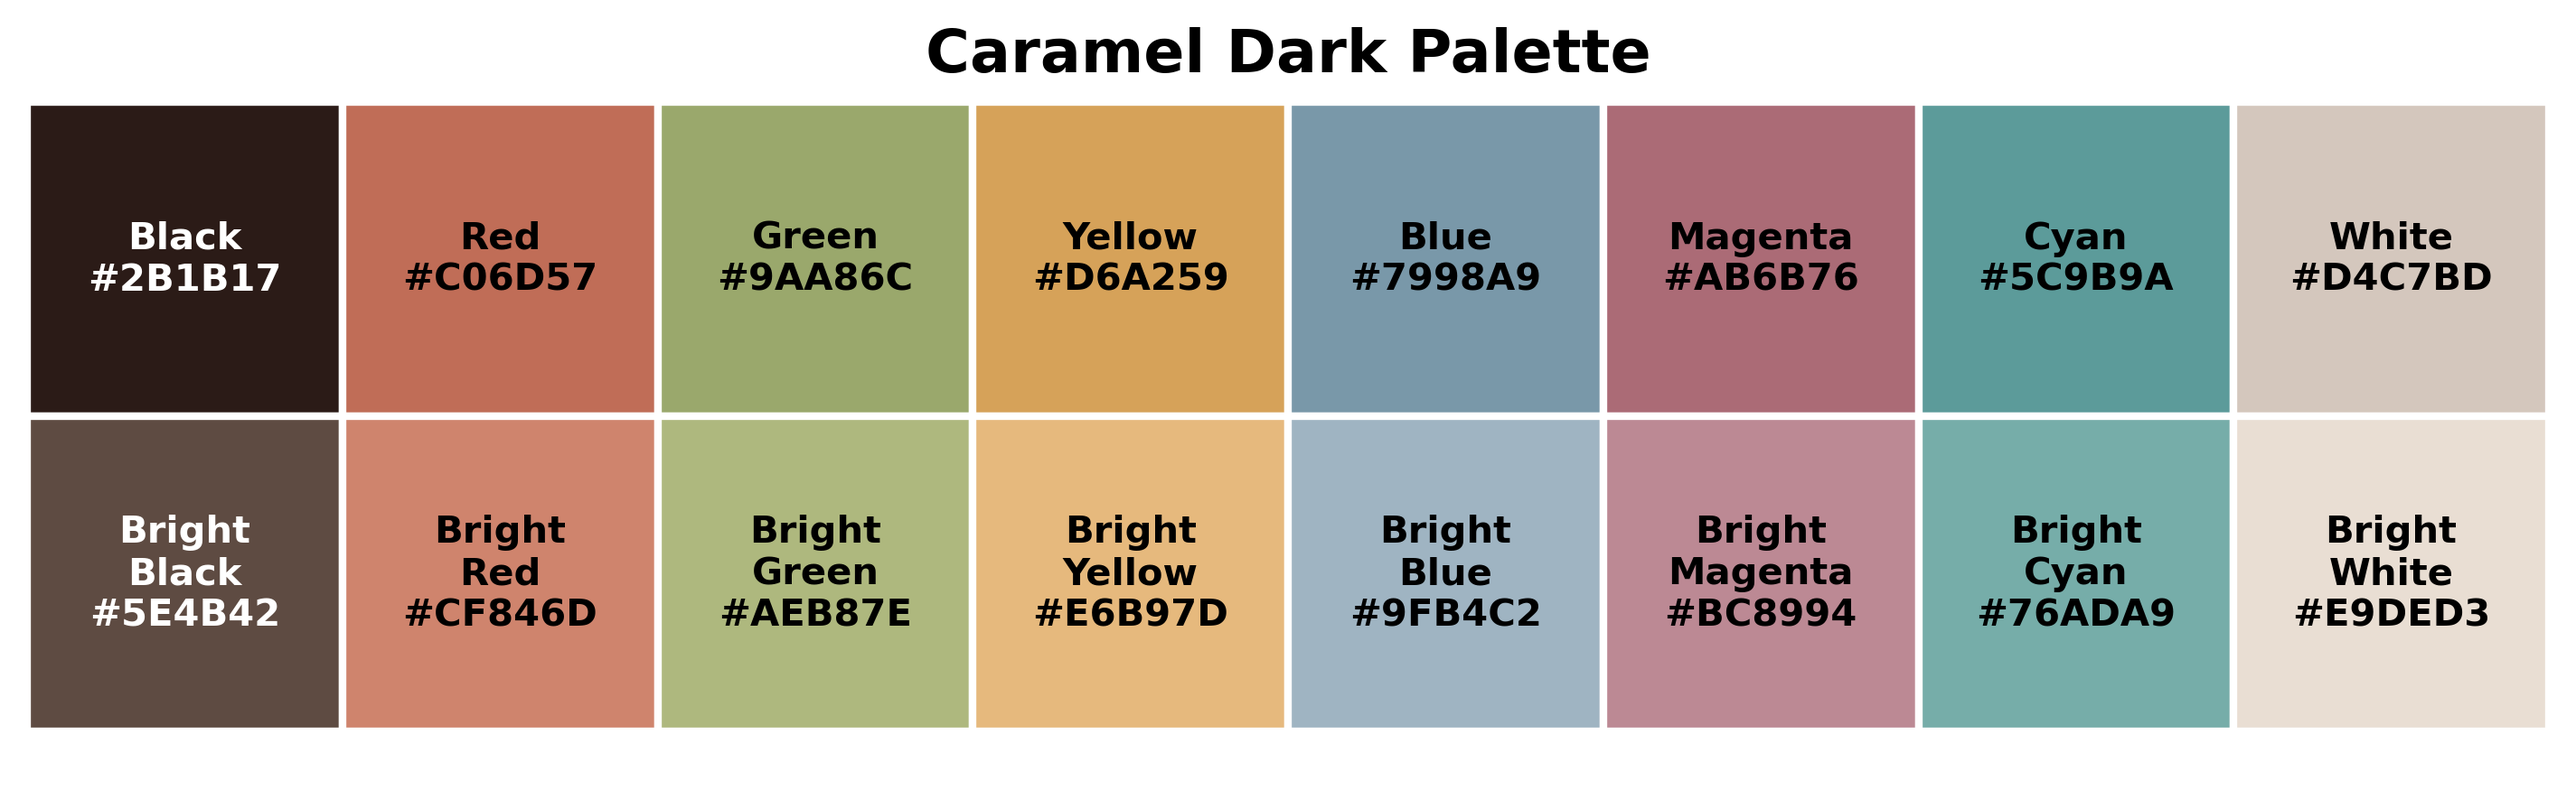
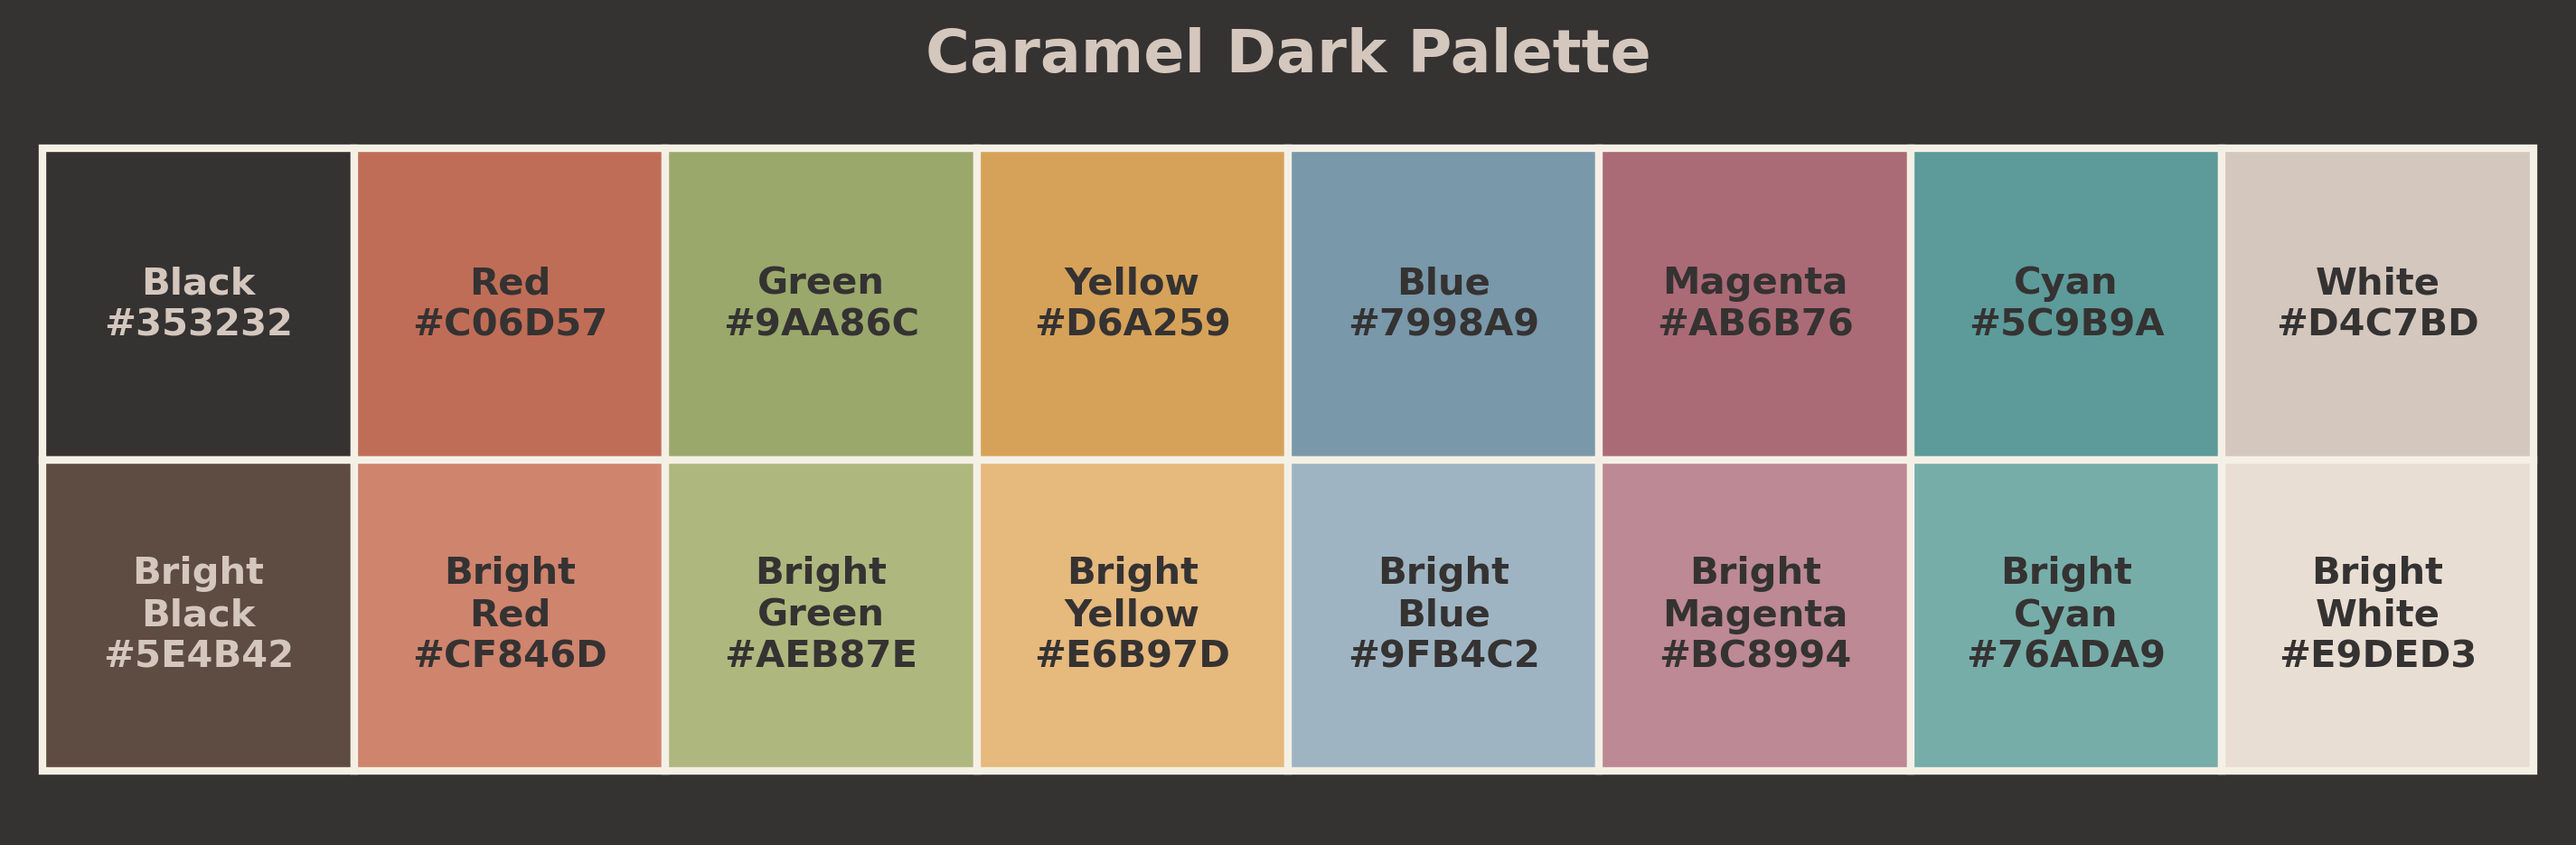
modified palette generation file

diff --git a/src/generate_palette_images.py b/src/generate_palette_images.py
@@ -1,55 +1,125 @@
 import matplotlib.pyplot as plt
-from caramel_colors import caramel_light, caramel_dark  # Import palettes
+from caramel_colors import caramel_light, caramel_dark  # Import the light and dark palettes
 
 # Update default font settings
 plt.rcParams["font.family"] = "DejaVu Sans"  # Change font to DejaVu Sans
 
-# Function to generate an 8x2 grid palette image
-def generate_palette_grid(palette, title, filename):
+# Function to generate the light palette grid
+def generate_light_palette_grid(title, filename):
+    # Create the figure and axis
     fig, ax = plt.subplots(figsize=(12, 3.5))  # Adjusted figure size for better aspect ratio
-    ax.axis('off')
+    fig.patch.set_facecolor(caramel_light["White"])  # Set background color to "White"
+    ax.axis('off')  # Turn off axes
 
     # Add title using plt.title
-    plt.title(title, fontsize=16, weight="bold", color="black", pad=8)
+    plt.title(title, fontsize=16, weight="bold", color=caramel_light["Black"], pad=8)
 
-    # Define box size
+    # Define box size for each color block
     box_size = 1.0
 
-    # Draw the palette as an 8x2 grid
-    for i, (name, color) in enumerate(palette.items()):
+    # Draw the light palette as an 8x2 grid
+    for i, (name, color) in enumerate(caramel_light.items()):
         x = i % 8  # Column index
         y = 1 - (i // 8)  # Row index
 
-        # Split "Bright" names into two lines
+        # Split "Bright" names into two lines for better readability
         if "Bright" in name:
             display_name = name.replace("Bright ", "Bright\n")
         else:
             display_name = name
 
-        # Combine the name and hex code
+        # Combine the name and hex code into a single string
         display_text = f"{display_name}\n{color}"
 
-        # Draw the color block
-        ax.add_patch(plt.Rectangle((x, y), box_size, box_size, color=color, ec="white", lw=2))  # Add white border
+        # Draw the color block as a rectangle
+        ax.add_patch(plt.Rectangle((x, y), box_size, box_size, color=color, ec=caramel_dark["Bright Black"], lw=2))  # Add white border
 
         # Add the text centered in the block
         ax.text(
-            x + box_size / 2, y + box_size / 2,
+            x + box_size / 2, y + box_size / 2,  # Center the text in the block
             display_text,
             ha="center", va="center",  # Center text both horizontally and vertically
             fontsize=10, weight="bold",
-            color="white" if color in ["#3B302C", "#6D5E55", "#2B1B17", "#5E4B42"] else "black"
+            color=caramel_light["White"] if color in ["#3B302C", "#6D5E55"] else caramel_light["Black"]  # Dynamic text color for contrast
         )
 
     # Set axis limits and aspect ratio
-    ax.set_xlim(0, 8)
-    ax.set_ylim(-0.1, 2)  # Reduced bottom padding further
+    ax.set_xlim(-0.05, 8.05)  # Small padding to include the grid border
+    ax.set_ylim(-0.15, 2.15)  # Small padding to include the grid border
     ax.set_aspect('equal')  # Ensure boxes are square
 
+    # Ensure the bounding box is the same thickness as the grid borders
+    ax.spines['top'].set_linewidth(2)
+    ax.spines['bottom'].set_linewidth(2)
+    ax.spines['left'].set_linewidth(2)
+    ax.spines['right'].set_linewidth(2)
+    ax.spines['top'].set_color(caramel_dark["Bright Black"])
+    ax.spines['bottom'].set_color(caramel_dark["Bright Black"])
+    ax.spines['left'].set_color(caramel_dark["Bright Black"])
+    ax.spines['right'].set_color(caramel_dark["Bright Black"])
+
     # Save the figure with tight bounding box
-    plt.savefig(f"../palette/{filename}", bbox_inches="tight", dpi=300)
+    plt.savefig(f"../palette/{filename}", bbox_inches="tight", dpi=300, facecolor=fig.get_facecolor())
     plt.close()
 
-# Generate the 8x2 grids
-generate_palette_grid(caramel_light, "Caramel Light Palette", filename="caramel_light_grid.png")
-generate_palette_grid(caramel_dark, "Caramel Dark Palette", filename="caramel_dark_grid.png")
+# Function to generate the dark palette grid
+def generate_dark_palette_grid(title, filename):
+    # Create the figure and axis
+    fig, ax = plt.subplots(figsize=(12, 3.5))  # Adjusted figure size for better aspect ratio
+    fig.patch.set_facecolor(caramel_dark["Black"])  # Set background color to "Bright Black"
+    ax.axis('off')  # Turn off axes
+
+    # Add title using plt.title
+    plt.title(title, fontsize=16, weight="bold", color=caramel_dark["White"], pad=8)  # White title for contrast
+
+    # Define box size for each color block
+    box_size = 1.0
+
+    # Draw the dark palette as an 8x2 grid
+    for i, (name, color) in enumerate(caramel_dark.items()):
+        x = i % 8  # Column index
+        y = 1 - (i // 8)  # Row index
+
+        # Split "Bright" names into two lines for better readability
+        if "Bright" in name:
+            display_name = name.replace("Bright ", "Bright\n")
+        else:
+            display_name = name
+
+        # Combine the name and hex code into a single string
+        display_text = f"{display_name}\n{color}"
+
+        # Draw the color block as a rectangle
+        ax.add_patch(plt.Rectangle((x, y), box_size, box_size, color=color, ec=caramel_light["White"], lw=2))  # Add white border
+
+        # Add the text centered in the block
+        ax.text(
+            x + box_size / 2, y + box_size / 2,  # Center the text in the block
+            display_text,
+            ha="center", va="center",  # Center text both horizontally and vertically
+            fontsize=10, weight="bold",
+            color=caramel_dark["White"] if color in ["#353232", "#5E4B42"] else caramel_dark["Black"]  # Dynamic text color for contrast
+        )
+
+    # Set axis limits and aspect ratio
+    ax.set_xlim(-0.05, 8.05)  # Small padding to include the grid border
+    ax.set_ylim(-0.15, 2.15)  # Small padding to include the grid border
+    ax.set_aspect('equal')  # Ensure boxes are square
+
+    # Ensure the bounding box is the same thickness as the grid borders
+    ax.spines['top'].set_linewidth(2)
+    ax.spines['bottom'].set_linewidth(2)
+    ax.spines['left'].set_linewidth(2)
+    ax.spines['right'].set_linewidth(2)
+    ax.spines['top'].set_color(caramel_light["White"])
+    ax.spines['bottom'].set_color(caramel_light["White"])
+    ax.spines['left'].set_color(caramel_light["White"])
+    ax.spines['right'].set_color(caramel_light["White"])
+
+    # Save the figure with tight bounding box
+    plt.savefig(f"../palette/{filename}", bbox_inches="tight", dpi=300, facecolor=fig.get_facecolor())
+    plt.close()
+
+# Generate the light and dark palette grids
+generate_light_palette_grid("Caramel Light Palette", filename="caramel_light_grid.png")
+generate_dark_palette_grid("Caramel Dark Palette", filename="caramel_dark_grid.png")

diff --git a/src/caramel_colors.py b/src/caramel_colors.py
@@ -21,7 +21,7 @@ caramel_light = {
 }
 
 caramel_dark = {
-    "Black": "#2B1B17",
+    "Black": "#353232",
     "Red": "#C06D57",
     "Green": "#9AA86C",
     "Yellow": "#D6A259",

diff --git a/README.md b/README.md
@@ -2,10 +2,8 @@
 
 The Caramel repository hosts a meticulously designed color scheme that draws inspiration from warm, earthy tones. It combines soft, muted accents with harmonious contrasts to create a visually appealing and functional palette for diverse applications. The Caramel color scheme is thoughtfully designed to align with WCAG (Web Content Accessibility Guidelines) standards, ensuring optimal readability and usability. By analyzing contrast ratios, the theme prioritizes accessibility, making it suitable for users with visual impairments and environments with varying lighting conditions. The theme includes both light and dark variants, making it ideal for various applications that demand readability, aesthetics, and accessibility.
 
-## Visual Palette
-
-  ![Caramel Stacked Palette](palette/stacked-palettes.png)
-
+## Palette
+[]
 ## Repository Structure
 
 ```
